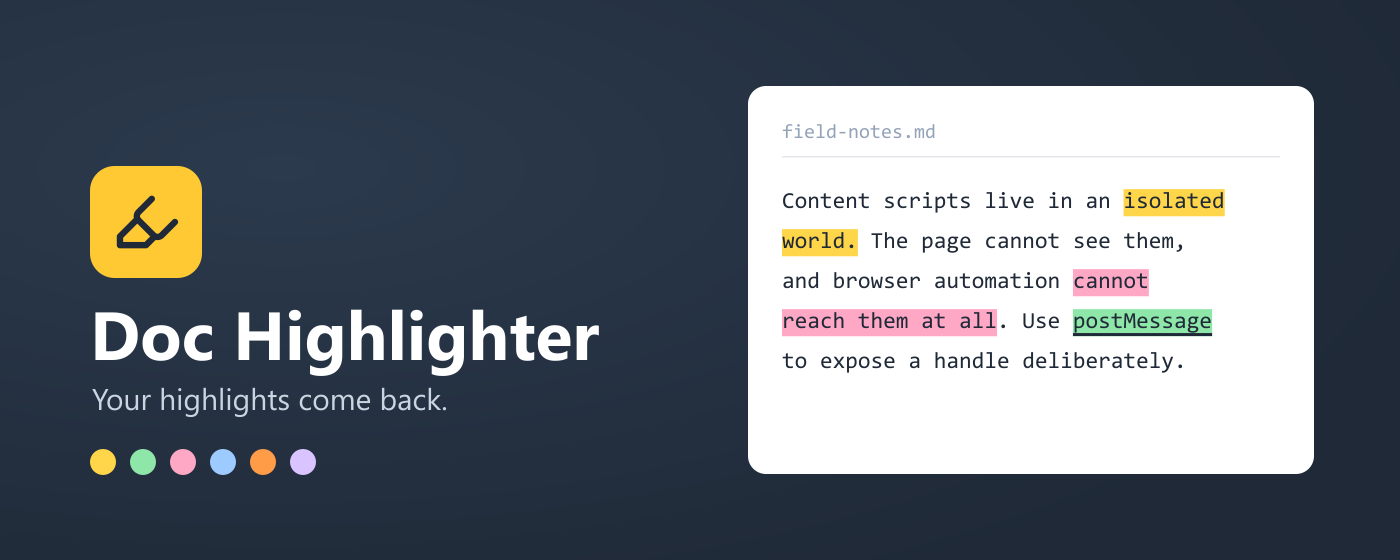
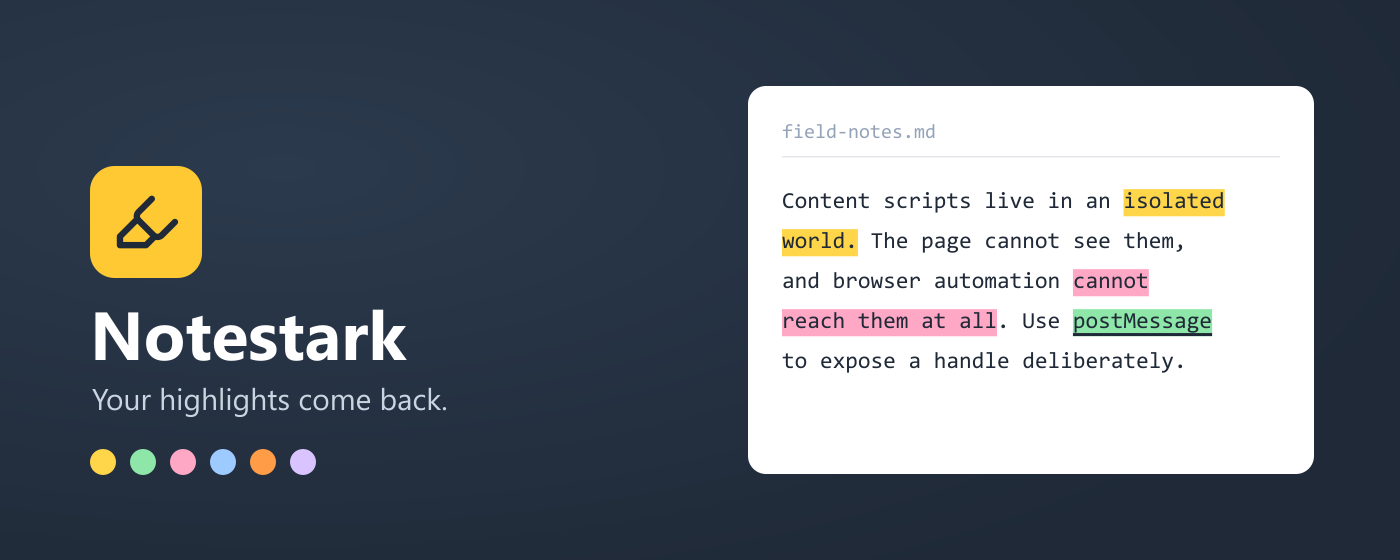
0.16.0: the extension is Notestark
It joins a product family. notestark.com is a note application with web,
desktop and mobile to follow, and this is the part of it that lives in the
browser — so it carries the name.

The store title is 'Notestark — Highlight & Notes'. The bare brand would not
have distinguished it from its own siblings in a search result; the second half
says which one this is, and at 29 characters nothing is truncated.

WHAT DID NOT CHANGE, deliberately: the storage keys (doc:, hash:, dhPalette,
dhPanelPrefs, dhTranslate), the CSS prefixes (dh-, data-dh-) and the diagnostics
handle. Renaming those would orphan every highlight anyone has already saved —
a data loss with nothing offered in return, since no reader ever sees an
internal key. Product naming and internal naming are different things and only
one of them moved.

Promo tiles and the privacy policy are regenerated rather than edited, so the
name reaches the images and the published document from the same source.

95 tests.

Changed region(s): [[0.0614, 0.5464, 0.43, 0.6679]]

diff --git a/site/index.html b/site/index.html
@@ -3,7 +3,7 @@
 <head>
 <meta charset="utf-8">
 <meta name="viewport" content="width=device-width, initial-scale=1">
-<title>Doc Highlighter — highlight local .md and .html files</title>
+<title>Notestark — highlight local .md and .html files</title>
 <meta name="description" content="A Chrome extension that highlights local Markdown and HTML files as well as the web. Your marks come back, and nothing leaves your device.">
 <style>
   :root {
@@ -101,7 +101,7 @@
       </svg>
     </div>
     <div>
-      <h1>Doc Highlighter</h1>
+      <h1>Notestark</h1>
       <p class="tag">Mark up what you read the way you would mark up paper —
       including the files on your own disk.</p>
     </div>
@@ -115,7 +115,7 @@
 
   <div class="cta">
     <a class="btn primary" href="STORE_URL">Add to Chrome</a>
-    <a class="btn" href="https://github.com/cansuk/doc-highlighter">Source code</a>
+    <a class="btn" href="https://github.com/cansuk/notestark">Source code</a>
     <a class="btn" href="privacy.html">Privacy</a>
   </div>
 
@@ -188,14 +188,14 @@
   <h2>Support</h2>
 
   <p>Something not working, or an idea for it? Open an issue on
-  <a href="https://github.com/cansuk/doc-highlighter/issues">the issue tracker</a> — it is read every day.</p>
+  <a href="https://github.com/cansuk/notestark/issues">the issue tracker</a> — it is read every day.</p>
 
   <footer>
     <div>Released under the GPL-3.0 licence.</div>
     <nav>
       <a href="privacy.html">Privacy policy</a>
-      <a href="https://github.com/cansuk/doc-highlighter">Source code</a>
-      <a href="https://github.com/cansuk/doc-highlighter/issues">Support</a>
+      <a href="https://github.com/cansuk/notestark">Source code</a>
+      <a href="https://github.com/cansuk/notestark/issues">Support</a>
     </nav>
   </footer>
 

diff --git a/site/privacy.html b/site/privacy.html
@@ -3,8 +3,8 @@
 <head>
 <meta charset="utf-8">
 <meta name="viewport" content="width=device-width, initial-scale=1">
-<title>Privacy Policy — Doc Highlighter</title>
-<meta name="description" content="Doc Highlighter collects no data and makes no network requests. Everything stays on your device.">
+<title>Privacy Policy — Notestark</title>
+<meta name="description" content="Notestark collects no data and makes no network requests. Everything stays on your device.">
 <style>
   :root {
     --bg: #ffffff;
@@ -104,7 +104,7 @@
       </svg>
     </div>
     <div>
-      <div class="name">Doc Highlighter</div>
+      <div class="name">Notestark</div>
       <div class="sub">Chrome extension</div>
     </div>
   </header>
@@ -113,7 +113,7 @@
   <p class="stamp">Last updated: 19 August 2026</p>
 
   <div class="lede">
-    <p><strong>Doc Highlighter collects nothing and transmits nothing.</strong>
+    <p><strong>Notestark collects nothing and transmits nothing.</strong>
     There is no account, no sign-in, no analytics and no third party. Nothing you read, select
     or write is sent anywhere.</p>
     <p>Everything you mark stays on the computer you marked it on.</p>
@@ -237,10 +237,10 @@
   <p>Questions about this policy, or about what the extension does, can be raised on the
   public issue tracker:</p>
 
-  <p><a href="https://github.com/cansuk/doc-highlighter/issues">https://github.com/cansuk/doc-highlighter/issues</a></p>
+  <p><a href="https://github.com/cansuk/notestark/issues">https://github.com/cansuk/notestark/issues</a></p>
 
   <footer>
-    Doc Highlighter is released under the GPL-3.0 licence. Everything described above can be
+    Notestark is released under the GPL-3.0 licence. Everything described above can be
     checked against the source code.
   </footer>
 

diff --git a/extension/src/shared/sites.js b/extension/src/shared/sites.js
@@ -1,5 +1,5 @@
 /*
- * Doc Highlighter — highlight local and web documents, stored on your device.
+ * Notestark — highlight local and web documents, stored on your device.
  * Copyright (C) 2026 cansuk
  *
  * This program is free software: you can redistribute it and/or modify it under
@@ -23,7 +23,7 @@
 
 import { log } from './log.js';
 
-const DYNAMIC_SCRIPT_ID = 'doc-highlighter-web';
+const DYNAMIC_SCRIPT_ID = 'notestark-web';
 const CONTENT_JS = 'src/content/content.js';
 
 /**
@@ -113,7 +113,7 @@ export async function revokeSite(origin) {
  * syncDynamicScripts() is called from three places: service worker start,
  * onInstalled, and permissions.onAdded. When two ran at the same time both saw
  * "not registered" and both called register; the second failed with
- *     Error: Duplicate script ID 'doc-highlighter-web'
+ *     Error: Duplicate script ID 'notestark-web'
  * and the registration was NEVER created — meaning nothing worked on any site.
  *
  * Calls are chained here. ensureRegistered() additionally recovers if a stale
@@ -164,7 +164,7 @@ async function doSync() {
  * What happened (Aug 2026): a failed registerContentScripts caused by the race
  * above left a BROKEN record on disk, because persistAcrossSessions was true.
  * Afterwards Chrome reported two contradictory errors:
- *   register -> "Duplicate script ID 'doc-highlighter-web'"
+ *   register -> "Duplicate script ID 'notestark-web'"
  *   update   -> "Script with ID ... does not exist or is not fully registered"
  * So the id counted as taken while no registration existed; it could neither be
  * updated nor created. getRegisteredContentScripts did NOT return it either —

diff --git a/extension/src/content/content.js b/extension/src/content/content.js
@@ -1,5 +1,5 @@
 /*
- * Doc Highlighter — highlight local and web documents, stored on your device.
+ * Notestark — highlight local and web documents, stored on your device.
  * Copyright (C) 2026 cansuk
  *
  * This program is free software: you can redistribute it and/or modify it under
@@ -8,7 +8,7 @@
  * version. See the LICENSE file, or <https://www.gnu.org/licenses/>.
  */
 /**
- * Doc Highlighter — content script
+ * Notestark — content script
  *
  * Being a SINGLE FILE is a constraint, not a preference: MV3 content_scripts do
  * not support ESM imports (there is no "type":"module"). The alternative is a
@@ -41,7 +41,7 @@
   if (window.__docHighlighterLoaded) return; // the same tab can be injected twice
   window.__docHighlighterLoaded = true;
 
-  const TAG = '[Doc Highlighter]';
+  const TAG = '[Notestark]';
   const UI_ATTR = 'data-dh-ui';
   const DEBUG_KEY = 'dhDebug';
 
@@ -1545,7 +1545,7 @@
       `<button class="handle" data-act="toggle"></button>` +
       `<div class="body">` +
       `<header>` +
-      `<span class="name">${msg('pnlTitle', 'Doc Highlighter')}</span>` +
+      `<span class="name">${msg('pnlTitle', 'Notestark')}</span>` +
       `<button class="icobtn" data-act="preview" title="${msg('pnlPreview', 'Rendered / source')}">&#9776;</button>` +
       `<button class="icobtn" data-act="side" title="${msg('pnlSide', 'Move to the other side')}">&#8646;</button>` +
       `<button class="icobtn" data-act="theme" title="${msg('pnlTheme', 'Light / dark')}">&#9680;</button>` +

diff --git a/extension/src/background.js b/extension/src/background.js
@@ -1,5 +1,5 @@
 /*
- * Doc Highlighter — highlight local and web documents, stored on your device.
+ * Notestark — highlight local and web documents, stored on your device.
  * Copyright (C) 2026 cansuk
  *
  * This program is free software: you can redistribute it and/or modify it under
@@ -114,7 +114,7 @@ const label = (key, fallback) => chrome.i18n.getMessage(key) || fallback;
 
 function buildContextMenu() {
   chrome.contextMenus.removeAll(() => {
-    const root = { id: MENU_ROOT, title: label('extName', 'Doc Highlighter'), contexts: ['all'], documentUrlPatterns: PATTERNS };
+    const root = { id: MENU_ROOT, title: label('extName', 'Notestark'), contexts: ['all'], documentUrlPatterns: PATTERNS };
     chrome.contextMenus.create(root);
 
     // Selection-only: highlighting something requires something to be selected,

diff --git a/test-pages/sample.html b/test-pages/sample.html
@@ -2,7 +2,7 @@
 <html lang="tr">
 <head>
   <meta charset="utf-8">
-  <title>Doc Highlighter — HTML test sayfası</title>
+  <title>Notestark — HTML test sayfası</title>
   <style>
     body { max-width: 46rem; margin: 3rem auto; padding: 0 1.5rem;
            font: 16px/1.7 Georgia, "Times New Roman", serif; color: #1f2937; }
@@ -21,7 +21,7 @@
 </head>
 <body>
   <h1>HTML test sayfası</h1>
-  <p class="lead">Bu dosya Doc Highlighter'ı denemek için var. İçindeki metinler
+  <p class="lead">Bu dosya Notestark'ı denemek için var. İçindeki metinler
   bilinçli olarak farklı yapılarda: paragraf, liste, tablo, kod, alıntı.</p>
 
   <h2>Tek element içinde seçim</h2>

diff --git a/extension/src/popup/popup.js b/extension/src/popup/popup.js
@@ -1,5 +1,5 @@
 /*
- * Doc Highlighter — highlight local and web documents, stored on your device.
+ * Notestark — highlight local and web documents, stored on your device.
  * Copyright (C) 2026 cansuk
  *
  * This program is free software: you can redistribute it and/or modify it under
@@ -22,7 +22,7 @@ import { t, localizeDom } from '../shared/i18n.js';
 
 localizeDom();
 
-const REPO = 'https://github.com/cansuk/doc-highlighter';
+const REPO = 'https://github.com/cansuk/notestark';
 const PALETTE_KEY = 'dhPalette';
 const TR_KEY = 'dhTranslate';
 const PREFS_KEY = 'dhPanelPrefs';

diff --git a/extension/src/popup/popup.html b/extension/src/popup/popup.html
@@ -2,7 +2,7 @@
 <html data-i18n-title="popupTitle">
 <head>
 <meta charset="utf-8">
-<title>Doc Highlighter</title>
+<title>Notestark</title>
 <style>
   /* The menu is styled as a marked-up page, because that is what this extension
      makes. The active tab is not a pill or a rail item — it is a highlighter
@@ -178,7 +178,7 @@
 <body>
 
 <div class="top">
-  <span class="wordmark"><span>Doc Highlighter</span></span>
+  <span class="wordmark"><span>Notestark</span></span>
   <span class="ver" id="version"></span>
 </div>
 

diff --git a/extension/src/onboarding/onboarding.js b/extension/src/onboarding/onboarding.js
@@ -1,5 +1,5 @@
 /*
- * Doc Highlighter — highlight local and web documents, stored on your device.
+ * Notestark — highlight local and web documents, stored on your device.
  * Copyright (C) 2026 cansuk
  *
  * This program is free software: you can redistribute it and/or modify it under

diff --git a/extension/src/shared/access.js b/extension/src/shared/access.js
@@ -1,5 +1,5 @@
 /*
- * Doc Highlighter — highlight local and web documents, stored on your device.
+ * Notestark — highlight local and web documents, stored on your device.
  * Copyright (C) 2026 cansuk
  *
  * This program is free software: you can redistribute it and/or modify it under

diff --git a/extension/src/shared/i18n.js b/extension/src/shared/i18n.js
@@ -1,5 +1,5 @@
 /*
- * Doc Highlighter — highlight local and web documents, stored on your device.
+ * Notestark — highlight local and web documents, stored on your device.
  * Copyright (C) 2026 cansuk
  *
  * This program is free software: you can redistribute it and/or modify it under

diff --git a/extension/src/shared/log.js b/extension/src/shared/log.js
@@ -1,5 +1,5 @@
 /*
- * Doc Highlighter — highlight local and web documents, stored on your device.
+ * Notestark — highlight local and web documents, stored on your device.
  * Copyright (C) 2026 cansuk
  *
  * This program is free software: you can redistribute it and/or modify it under
